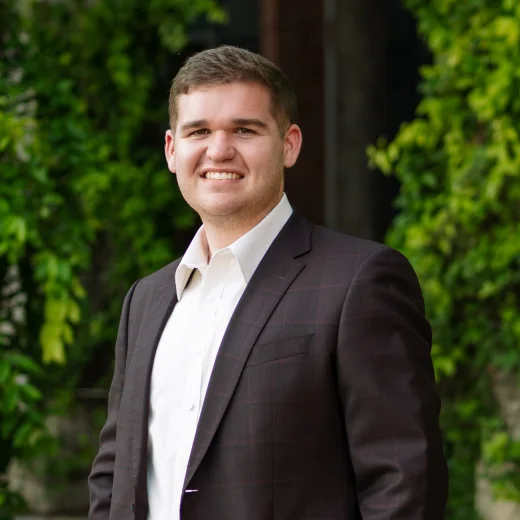
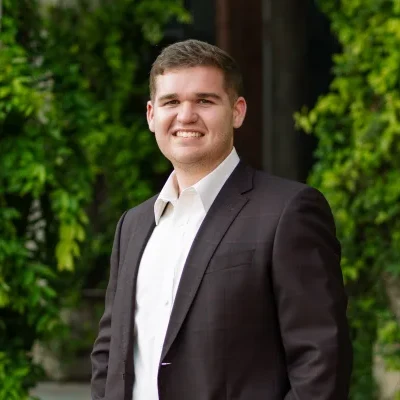
Give the handheld About photo a real head-and-shoulders crop
The file at images/jd-headshot.webp was not what the markup said it was.
The comment promised a square crop that "keeps a readable face at the ~92px
the handheld byline gives it", but the 520x520 asset was the full standing
shot squeezed into a square, so the face took up about a fifth of the frame.
A square source in a 1:1 box also means object-fit: cover crops nothing, so
object-position could not rescue it from CSS.

Recut from the 900x1350 portrait: a 400x400 window on the face, head at
roughly a third of frame height, q88 webp. 21KB, slightly under what it
replaced. Desktop is untouched and still gets the standing shot.

srcset carries ?v=2 because the path is unchanged and Pages would otherwise
serve the cached old crop for ten minutes.

diff --git a/index.html b/index.html
@@ -233,7 +233,7 @@
              column beside the copy, and the square head-and-shoulders keeps a
              readable face at the ~92px the handheld byline gives it. -->
         <picture>
-          <source media="(max-width: 860px)" srcset="images/jd-headshot.webp">
+          <source media="(max-width: 860px)" srcset="images/jd-headshot.webp?v=2">
           <img src="images/jd-portrait.webp" alt="J.D. McCullough, Jr., Founder of McCullough & Company">
         </picture>
       </div>
